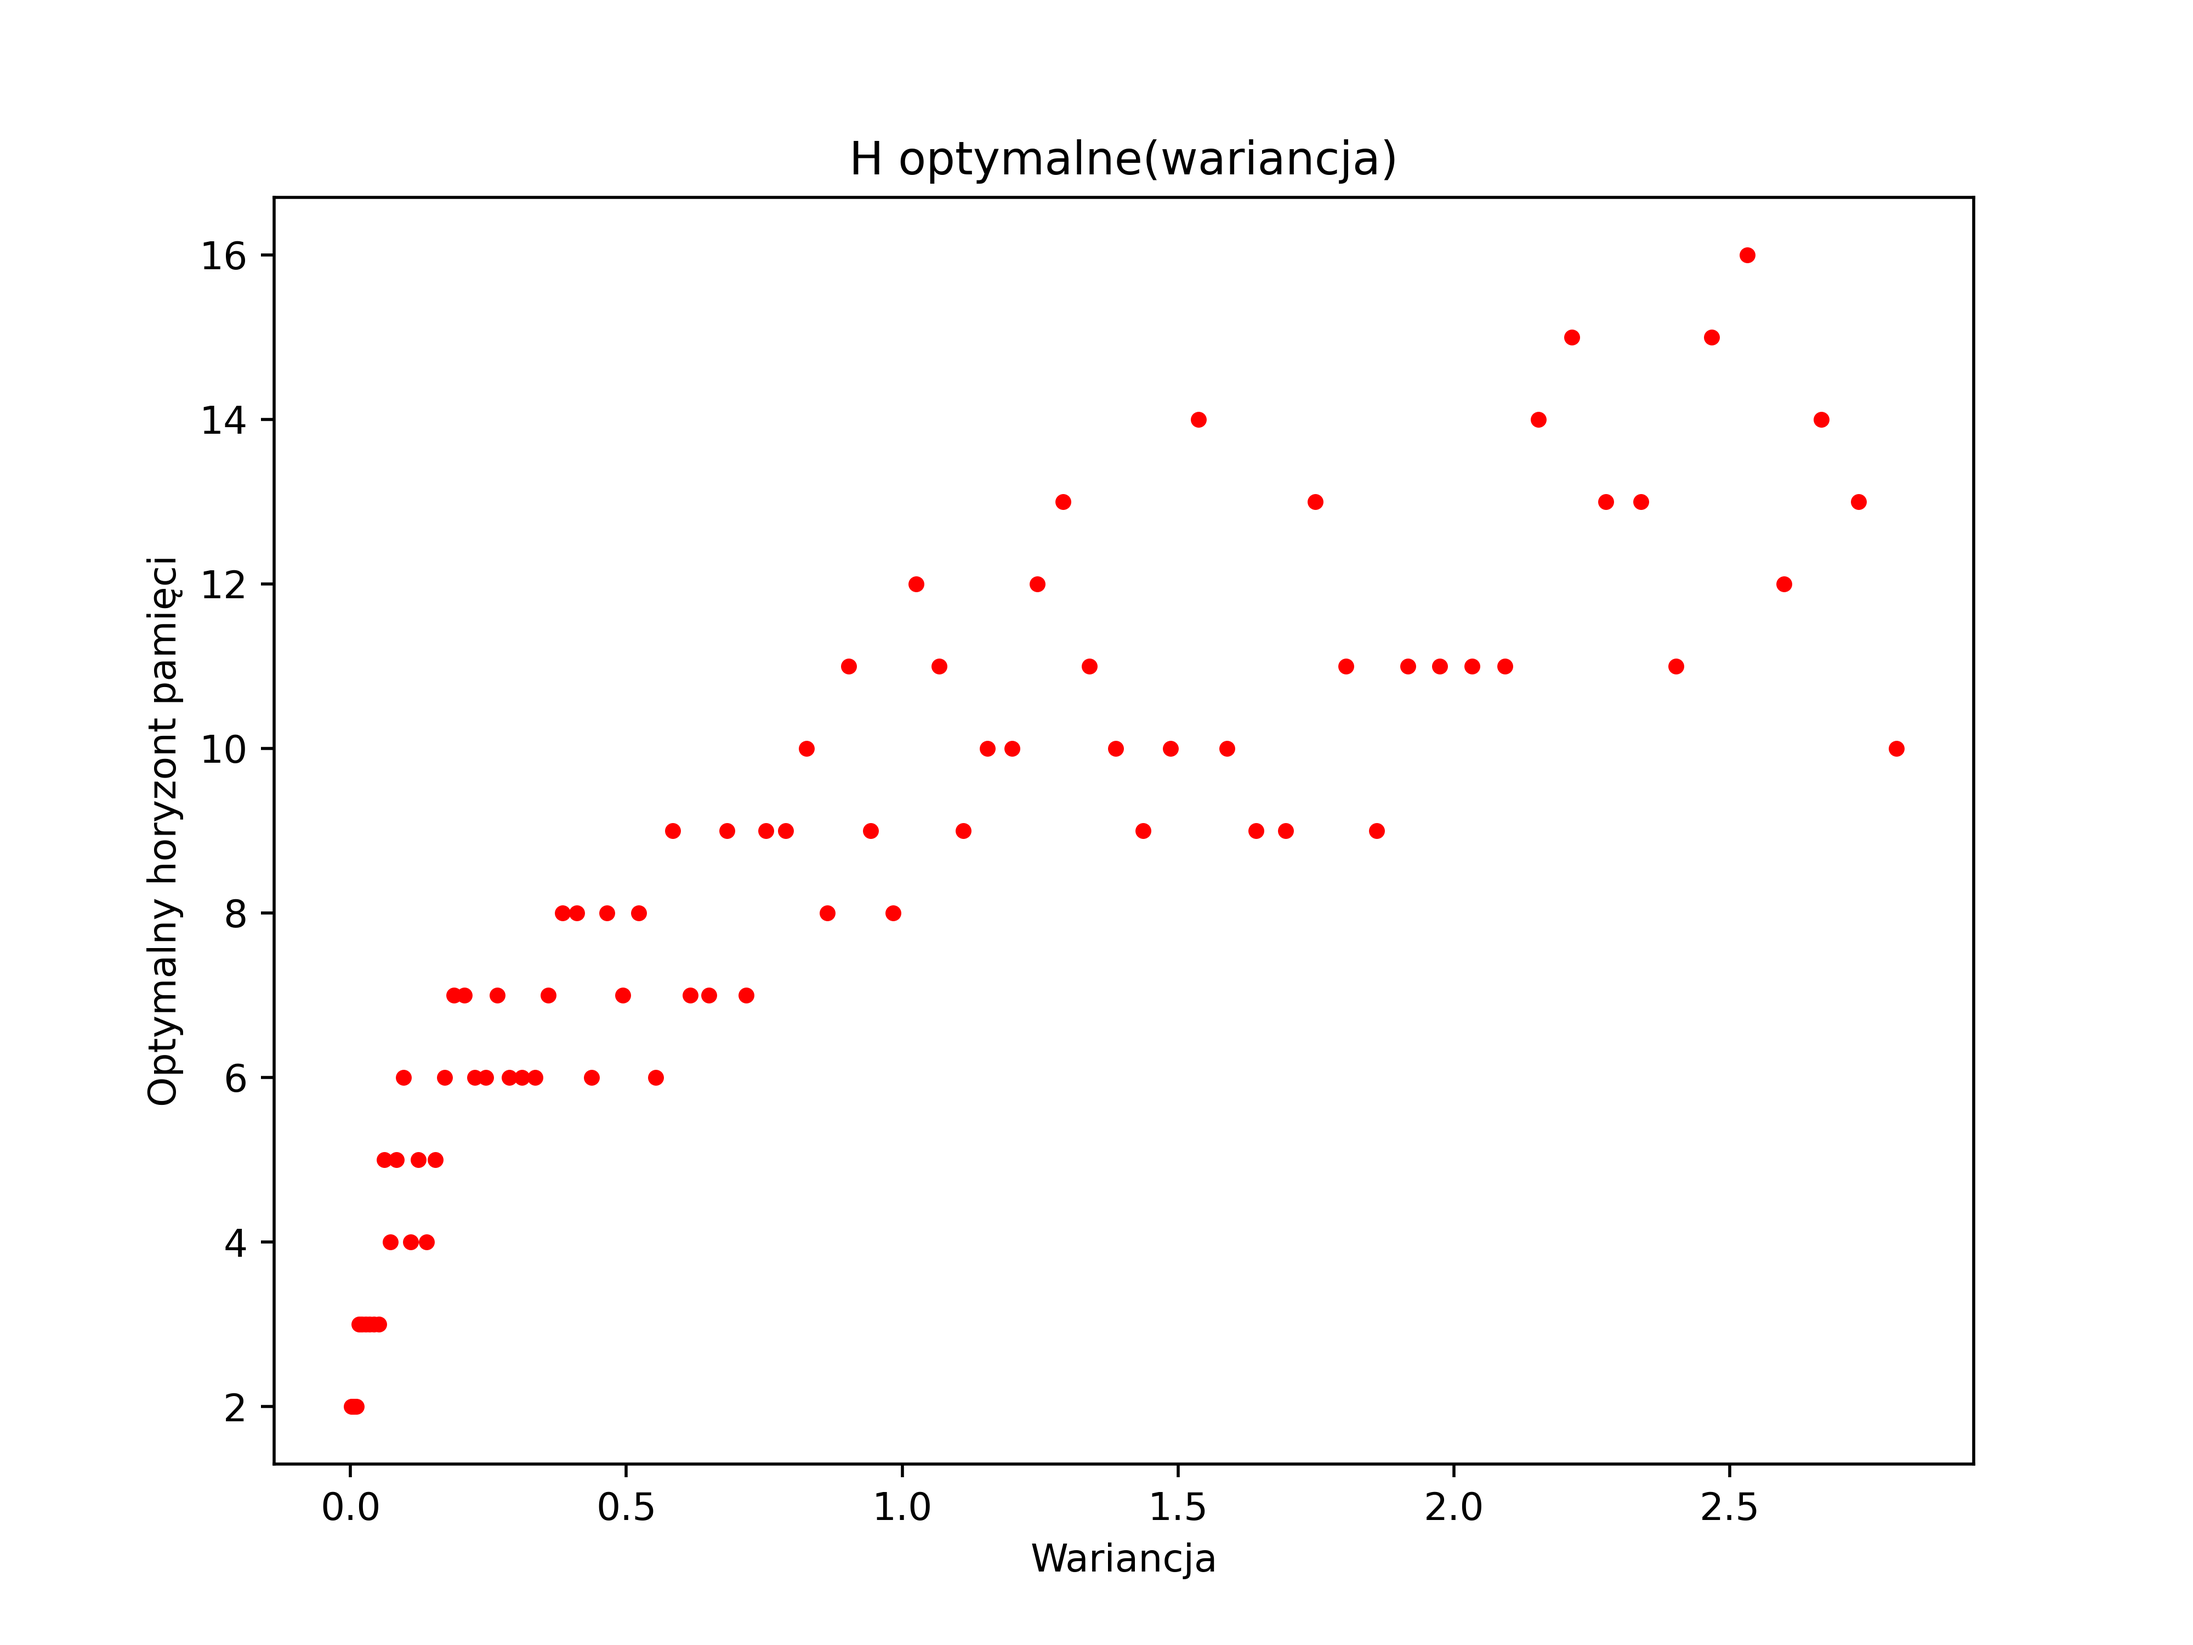
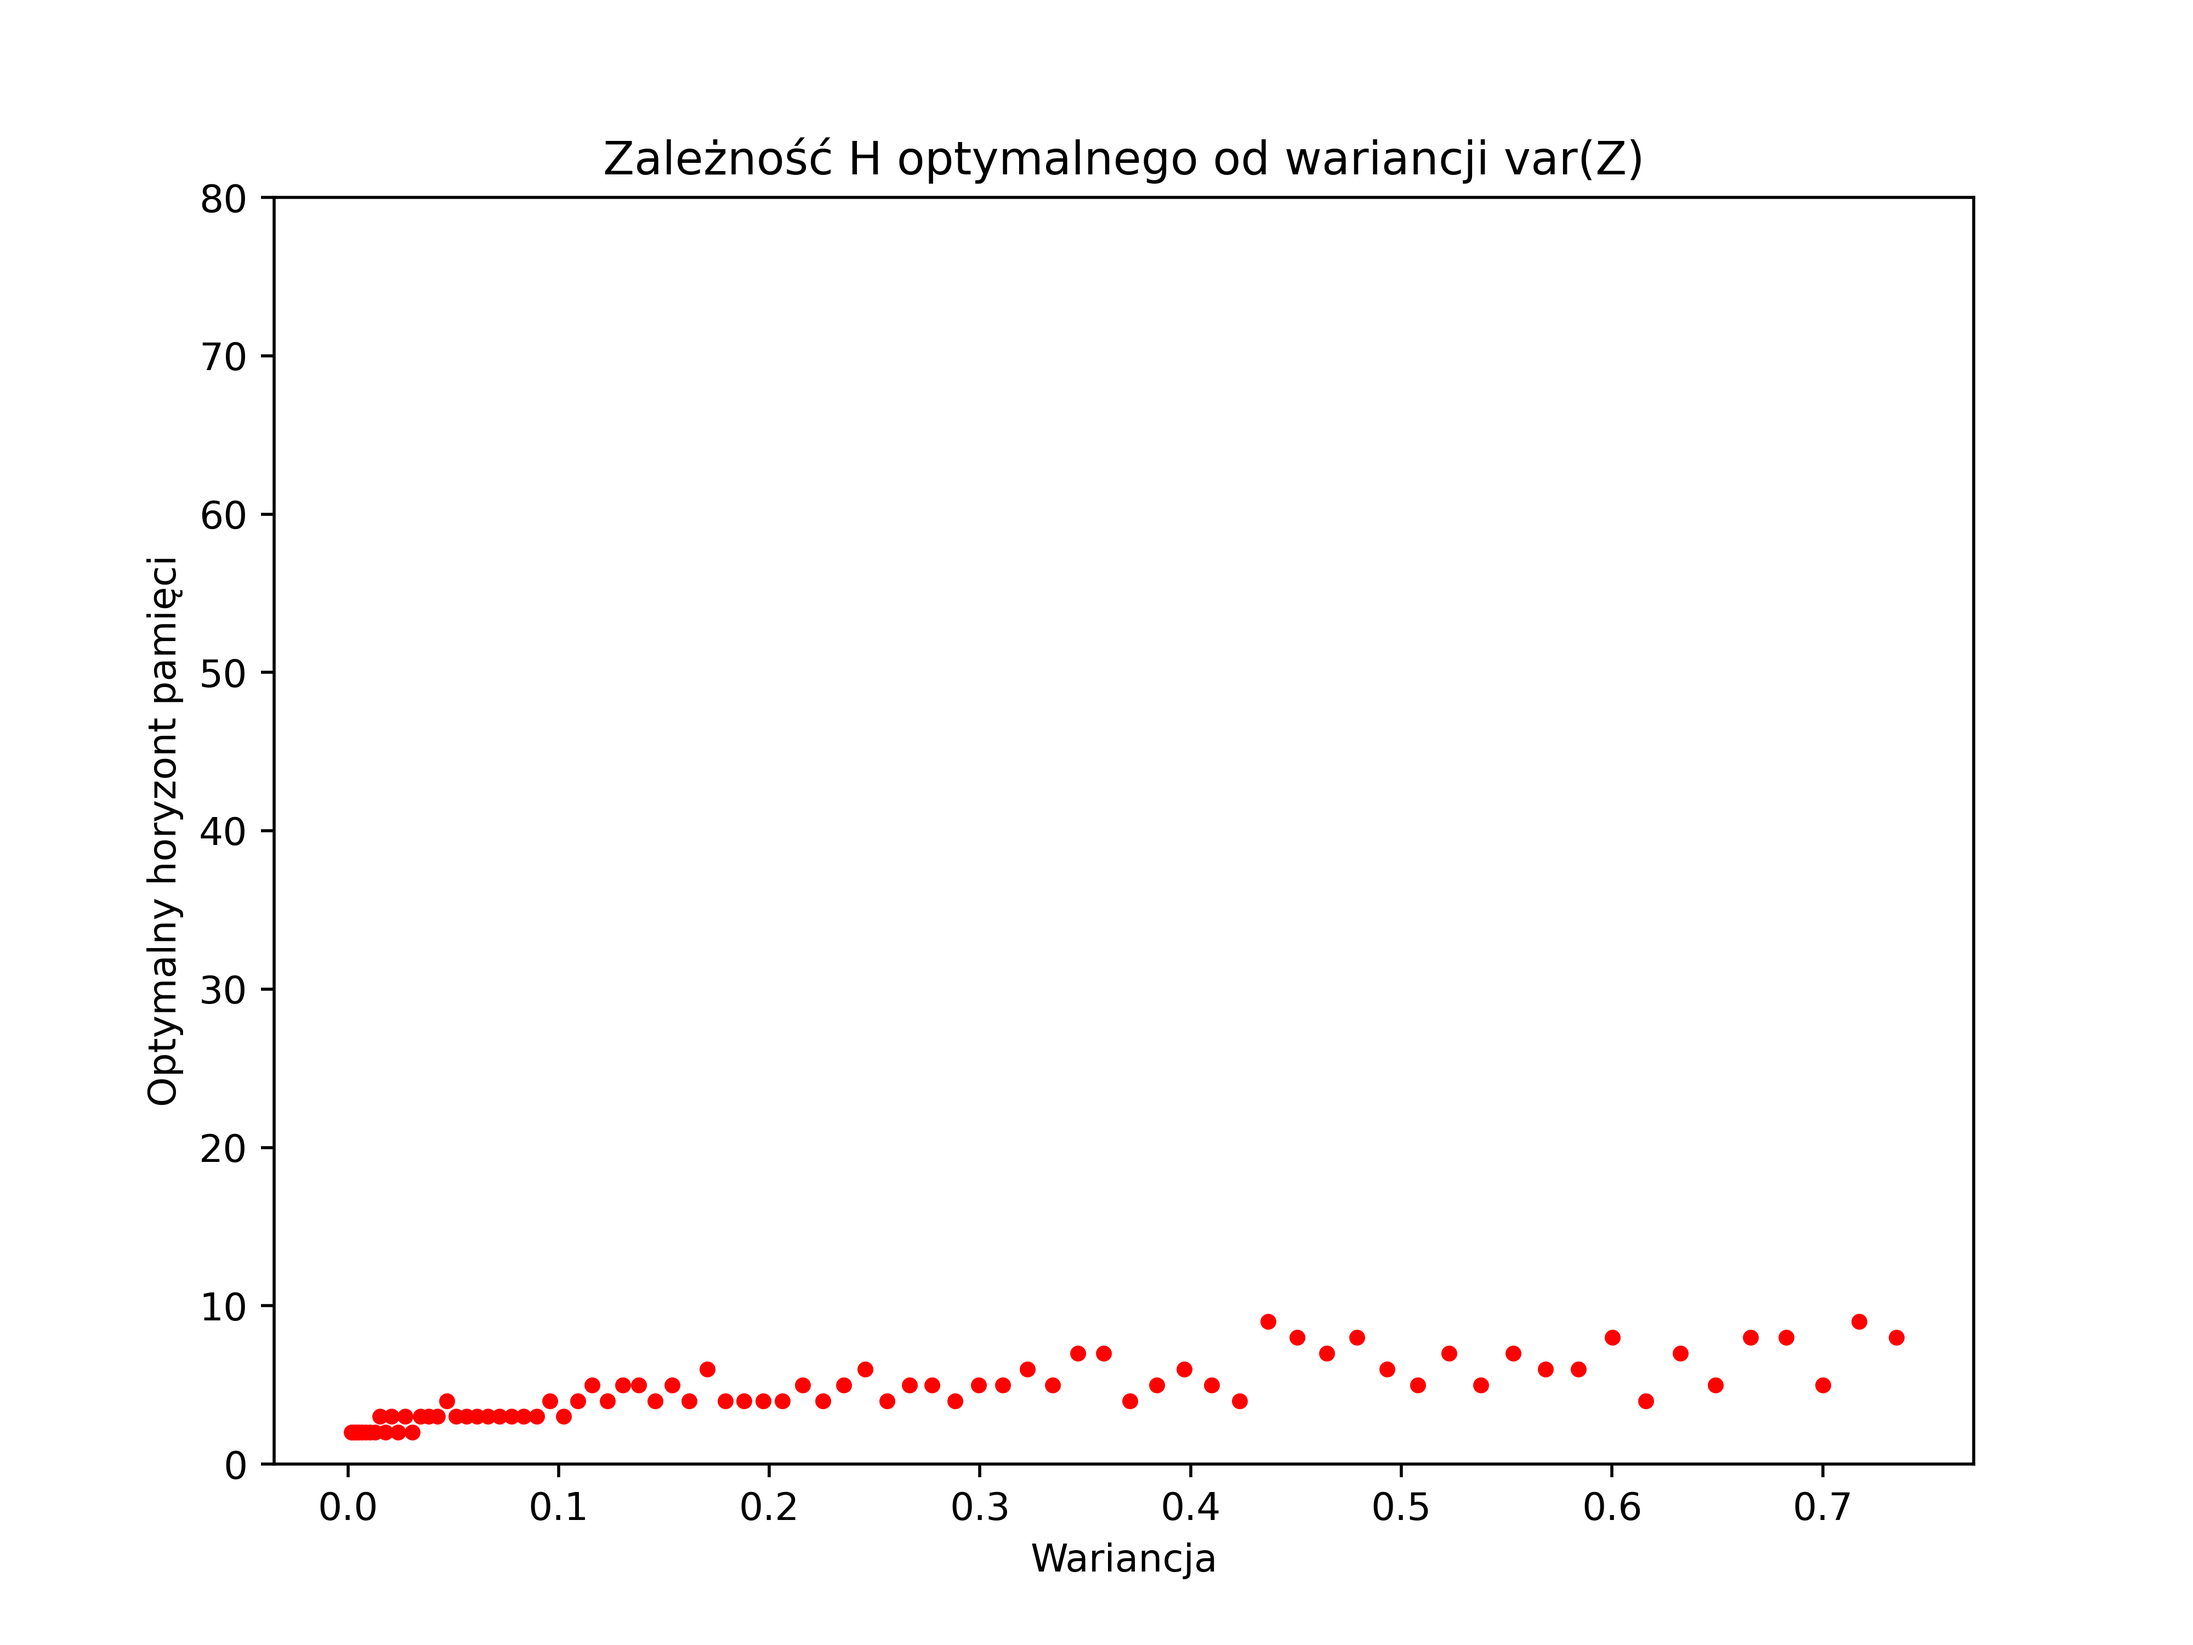
images

diff --git a/adaptacyjne/projekt1/wave.py b/adaptacyjne/projekt1/wave.py
@@ -7,7 +7,7 @@ from matplotlib import cm
 # number of samples, max h, expected signal 
 def calculate_all(N, max, triangular_signal):
     H = [i for i in range(2,max + 2)]
-    c = np.linspace(0.05, 2.05, max) # numbers chosen arbitrarily
+    c = np.linspace(0.05, 1.05, max) 
     var = np.zeros(len(c))
     MSE = np.zeros((len(c), len(H)))
     MSE_opt = np.zeros(len(c))
@@ -25,7 +25,7 @@ def calculate_all(N, max, triangular_signal):
                     if i > H[current_h]:
                         local_sum[i] += triangular_signal_with_noise[i-h] 
             estimated = np.zeros(N)
-            estimated =[ local_sum[i]/(H[current_h]) if (i > H[current_h]) else triangular_signal[i]  for i in range(N)]
+            estimated =[ local_sum[i]/(H[current_h]) if (i > H[current_h]) else triangular_signal_with_noise[i]  for i in range(N)]
            
             for i in range(H[current_h], N): # from H till N
                 MSE[current_c][current_h] += (estimated[i] - triangular_signal[i])**2
@@ -37,6 +37,7 @@ def calculate_all(N, max, triangular_signal):
                 H_opt[current_c] = H[current_h]      
         
     return H, MSE, var, H_opt, MSE_opt
+   
     
 def estimate(triangular_signal, N, c, H):
     noise = [ c *(random.random() + random.random() - 1) for _ in range(N)]
@@ -47,13 +48,104 @@ def estimate(triangular_signal, N, c, H):
         for h in range(H):
             if i > H:
                 local_sum[i] += triangular_signal_with_noise[i-h] 
-
+    estimated = np.zeros(N)
     estimated =[ local_sum[i]/(H) if (i > H) else triangular_signal_with_noise[i]  for i in range(N)]
 
     for i in range(H, N): # od H do N
-        MSE += (triangular_signal_with_noise[i] - estimated[i])**2
+        MSE += (estimated[i] - triangular_signal[i])**2
     MSE = MSE/(N - H)
-    return triangular_signal_with_noise, estimated
+    return triangular_signal_with_noise, estimated, MSE
+
+
+def images_MSE(t, N, max, triangular_signal, c_index, H_index):
+    H, MSE, var, H_opt, MSE_opt = calculate_all(N, max, triangular_signal)
+    # MSE(H) and MSE(var) plots
+    fig_H, (ax_H, ax_var) = plt.subplots(1, 2, figsize=(12, 6))
+    #  H
+    fig_H = plt.figure(figsize=(8, 6))
+    ax_H = fig_H.add_subplot(111)
+    ax_H.scatter(H, MSE[c_index,:], color='b', marker='o', s=10)
+    ax_H.set_title(f'Zależność MSE(H) dla var(Z) ={var[c_index]:.2f}')
+    ax_H.set_xlabel('Horyzont pamięci')
+    ax_H.set_ylabel('MSE(H)')
+    # var
+    fig_var = plt.figure(figsize=(8, 6))
+    ax_var = fig_var.add_subplot(111)
+    ax_var.scatter(var, MSE[: , H_index] , color='r', marker='o', s=10)
+    ax_var.set_title(f'Zależność MSE(H) dla H = {H[H_index]} przy różnych wariacjach var(Z)')
+    ax_var.set_xlabel('Wariancja')
+    ax_var.set_ylabel('MSE(H)')
+
+    # Hopt(var) 
+    fig_opt = plt.figure(figsize=(8, 6))
+    ax_opt = fig_opt.add_subplot(111)
+    ax_opt.scatter(var, H_opt,  c='r', s=10) 
+    ax_opt.set_title('Zależność H optymalnego od wariancji var(Z)')
+    ax_opt.set_ylabel('Optymalny horyzont pamięci')
+    ax_opt.set_xlabel('Wariancja')
+    ax_opt.set_ylim(0, max)
+
+    # 3d plot - H, var, MSE(h) + h opt for all calculated var
+    fig_3d = plt.figure(figsize=(14, 6))
+    ax0 = fig_3d.add_subplot(121, projection='3d')
+    ax1 = fig_3d.add_subplot(122, projection='3d')
+    X, Y = np.meshgrid(H, var)
+    Z = MSE
+
+    # optimal horizon plot
+    ax1.scatter(H_opt, var, MSE_opt, c='#fe008b', marker='o', s=40, label="H_opt(var(Z))")
+    colors = cm.viridis(Z)
+    rcount, ccount, _ = colors.shape
+    # change in
+    ax0.plot_surface(X, Y, Z, cmap='viridis')
+    ax0.set_xlabel('Horyzont pamięci')
+    ax0.set_ylabel('Wariancja')
+    ax0.set_zlabel('MSE(H)')
+    ax0.set_title('MSE(H) przy różnych wariancjach var(Z)')
+    ax0.view_init(elev=20, azim=-120)
+
+    surf = ax1.plot_surface(X, Y, Z, rcount=rcount, ccount=ccount, facecolors=colors, shade=False)
+    surf.set_facecolor((0,0,0,0))
+    ax1.set_xlabel('Horyzont pamięci')
+    ax1.set_ylabel('Wariancja')
+    ax1.set_zlabel('MSE(H)')
+    ax1.set_title('MSE(H) przy różnych wariancjach var(Z)')
+    ax1.legend(loc='center left', bbox_to_anchor=(1, 1))
+    ax1.view_init(elev=20, azim=-120)
+    plt.tight_layout()
+
+    fig_3d.savefig(os.path.join(os.path.dirname(__file__), "images", "Wykres_3d.png"), dpi=500) # APPROVED
+    fig_opt.savefig(os.path.join(os.path.dirname(__file__), "images", "Wykres_opt.png"), dpi=500) # APPROVED
+    fig_H.savefig(os.path.join(os.path.dirname(__file__), "images", f"Wykres_H_c={var[c_index]:.2f}.png"), dpi=500) # APPROVED
+    fig_var.savefig(os.path.join(os.path.dirname(__file__), "images", f"Wykres_var_H={H[H_index]}.png"), dpi=500) # APPROVED
+
+    fig_3d.show()
+    g = input("STOP")
+
+# signal w/ and wo/ noise 
+def images_signal(t, triangular_signal, N, c_value, H_value, amplitude):
+    t_w_n, est, MSE = estimate(triangular_signal, N, c=c_value, H=H_value)
+    
+    fig = plt.figure(figsize=(14, 6))
+    ax = fig.add_subplot(121) 
+    ax_est = fig.add_subplot(122)
+    ax.plot(t, triangular_signal, c='r', label="Prawdziwa fala trójkątna") 
+    ax.scatter(t, t_w_n, c='g', marker='o', label="Zaszumiona fala trójkątna")
+    var = 2 *(c_value**2)/3
+    ax.set_title(f'Prawdziwa i zaszumiona fala trójkątna dla var(Z) = {var:.2f}')
+    ax.legend(loc='upper right')
+    ax.set_xlabel('Czas (s)')
+    ax.set_ylabel('Amplituda')
+    ax.set_ylim(-amplitude - c_value - 0.1, amplitude + c_value + 0.1)
+    ax_est.plot(t, triangular_signal, c='r', label="Prawdziwa fala trójkątna") 
+    ax_est.plot(t[H_value+1:], est[H_value+1:], c='b', marker='o', label="Estymowana fala trójkątna")
+    ax_est.set_title(f'Prawdziwa fala trójkątna i jej estymacja dla H = {H_value}')
+    ax_est.legend(loc='upper right')
+    ax_est.set_xlabel('Czas (s)')
+    ax_est.set_ylabel('Amplituda')
+    ax_est.set_ylim(-amplitude - c_value - 0.1, amplitude + c_value + 0.1)
+    fig.savefig(os.path.join(os.path.dirname(__file__), "estimate", f"Szum_c={c_value}__H={H_value}_MSE={MSE:.3f}.png"), dpi=500) # APPROVED
+
 
 def main():
     # triangular function parameters 
@@ -61,158 +153,26 @@ def main():
     period = 1 / frequency
     amplitude = 1.0  # Amplitude of the signal
     duration = 1000.0  # Duration of the signal (seconds)
-    sampling_frequency = 0.7  # Sampling frequency (samples per second)
+    sampling_frequency = 0.5 # Sampling frequency (samples per second)
+    
     # time vector
     t = np.linspace(0, duration, int(sampling_frequency * duration), endpoint=False) # <class 'numpy.ndarray'>
     N = len(t)
-    # triangular_signal = amplitude * (2 * np.abs(2 * (t * frequency - np.floor(t * frequency + 0.5))) - 1)
     triangular_signal = ((4 * amplitude) / period) * np.abs(((t - (period * 0.25))%period) - (period * 0.5)) - amplitude
+    
     # amount of samples (H and var)
     max = 80
-    c_value = 1
-    H_value = 4
-    # calculating MSE, H and var
-    # H, MSE, var, H_opt, MSE_opt = calculate_all(N, max, triangular_signal)
-    t_w_n, est = estimate(triangular_signal, N, c=c_value, H=H_value)
-
-
-    # creating plots
-    # signal w/ and wo/ noise
-    fig = plt.figure(figsize=(10, 8))
-    ax = fig.add_subplot(111) # TE NAZWY SĄ DO ZMIANY !
-    # TRZEBABY JESZCZE POKAZAĆ TEN ESTYMOWANY SYGNAŁ(?)
-    ax.plot(t, triangular_signal, c='r', label="Fala trójkątna") 
-    # ax.plot(t, est, c='b', marker='o', label="Fala estymowana")
-    ax.scatter(t, t_w_n, c='g', marker='o', label="Zaszumiona fala trójkątna")
-    ax.set_title(f'Fala trójkątna')
-    ax.legend(loc='upper right')
-    ax.set_xlabel('Czas (s)')
-    ax.set_ylabel('Amplituda')
-    # ax.set_ylim(-amplitude - 0.5, amplitude + 0.5)
-
-    fig_est = plt.figure(figsize=(10,8))
-    ax_est = fig_est.add_subplot(111)
-    ax_est.plot(t, triangular_signal, c='r', label="Fala trójkątna") 
-    ax_est.plot(t, est, c='b', marker='o', label="Fala estymowana")
-    # ax_est.scatter(t, t_w_n, c='g', marker='o', label="Zaszumiona fala trójkątna")
-    ax_est.set_title(f'Fala trójkątna')
-    ax_est.legend(loc='upper right')
-    ax_est.set_xlabel('Czas (s)')
-    ax_est.set_ylabel('Amplituda')
-
-    """
-    # MSE(H) and MSE(var) plots
-    fig_MSE, (ax_H, ax_var) = plt.subplots(1, 2, figsize=(12, 6))
-    #  H
-    c_value = 5
-    ax_H.scatter(H, MSE[c_value , :], color='b', marker='o', s=10)
-    ax_H.set_title(f'Zależność MSE(H) dla var ={(2 * (c_value**2)) / 3}')
-    ax_H.set_xlabel('Horyzont pamięci')
-    ax_H.set_ylabel('MSE(H)')
-    # var
-    H_value = 2
-    ax_var.scatter(var, MSE[: , 0] , color='r', marker='o', s=10)
-    ax_var.set_title(f'Zależność MSE(H) przy różnych wariacjach dla H = {H_value}')
-    ax_var.set_xlabel('Wariancja')
-    ax_var.set_ylabel('MSE')
-
-    # Var(H opt) - CZY TO NIE POWINNO BYĆ NA ODWRÓT Hopt(var) ?? 
-    fig_opt = plt.figure(figsize=(8, 6))
-    ax_opt = fig_opt.add_subplot(111)
-    ax_opt.scatter(var, H_opt,  c='r', s=10) # ZAMIENIŁAM TUTAJ KOLEJNOŚĆ!!
-    ax_opt.set_title('H optymalne(wariancja)')
-    ax_opt.set_ylabel('Optymalny horyzont pamięci')
-    ax_opt.set_xlabel('Wariancja')
-
-    # 3d plot - H, var, MSE(h) + h opt for all calculated var
-    fig_3d = plt.figure(figsize=(8, 6))
-    ax0 = fig_3d.add_subplot(111, projection='3d')
-    X, Y = np.meshgrid(H, var)
-    Z = MSE
-
-    # optimal horizon plot
-    ax0.scatter(H_opt, var, MSE_opt, c='black', marker='o', s=20, label="H opt(var)")
-
-    # norm = plt.Normalize(Z.min(), Z.max())
-    colors = cm.rainbow(Z)
-    rcount, ccount, _ = colors.shape
-    surf = ax0.plot_surface(X, Y, Z, rcount=rcount, ccount=ccount, facecolors=colors, shade=False)
-    surf.set_facecolor((0,0,0,0))
-    # cbar = fig.colorbar(surf, shrink=0.5, aspect=5)
-
-    ax0.set_xlabel('Horyzont pamięci')
-    ax0.set_ylabel('Wariancja')
-    ax0.set_zlabel('MSE(H)')
-    ax0.set_title('MSE(H) dla róznych wariancji')
-    ax0.legend(loc='center left', bbox_to_anchor=(1, 1))
-
-    plt.tight_layout()
-    """
-    fig.savefig(os.path.join(os.path.dirname(__file__), "estimate", f"Szum_c={c_value}__H={H_value}.png"), dpi=500)
-    fig_est.savefig(os.path.join(os.path.dirname(__file__), "estimate", f"Est_c={c_value}__H={H_value}.png"), dpi=500)
-    # fig.savefig(os.path.join(os.path.dirname(__file__), "images", "Wykres_szumu.png"), dpi=500)
-    # fig_est.savefig(os.path.join(os.path.dirname(__file__), "images", "Wykres_estymowany.png"), dpi=500)
-    # fig_3d.savefig(os.path.join(os.path.dirname(__file__), "images", "Wykres_3d.png"), dpi=500)
-    # fig_opt.savefig(os.path.join(os.path.dirname(__file__), "images", "Wykres_opt.png"), dpi=500)
-    # fig_MSE.savefig(os.path.join(os.path.dirname(__file__), "images", "Wykres_MSE.png"), dpi=500)
-
-    # plt.show()
-
+    c_value = [0.2, 0.4, 0.6, 0.8, 1]
+    H_value = [2, 5, 7, 15, 25, 50]
+    for i in range(len(c_value)):
+        for j in range(len(H_value)):
+            images_signal(t, triangular_signal, N, c_value[i], H_value[j], amplitude)
+    
+    c_index = 40
+    H_index = 4 
+    images_MSE(t, N, max, triangular_signal, c_index, H_index)
+    
+    
 if __name__ == "__main__":
     main()
-"""
-plt.figure(1)
-plt.scatter(H, MSE_H, c='b', marker='o')
-plt.scatter(min_H, min_MSE, c='r', marker='o', label=f'Min MSE (H={min_H}, MSE={min_MSE})')
-plt.title(f'MSE(H) for c = {c}')
-plt.xlabel('H')
-plt.ylabel('MSE')
-plt.show()
 
-plt.figure()
-plt.plot(var, MSE_c,c='b', marker='o')
-# plt.scatter(min_var, min_MSE_c, c='r', marker='o', label=f'Min MSE (var={min_var}, MSE={min_MSE_c})')
-# plt.title(f'MSE(var) for c = {c}')
-plt.xlabel('var')
-plt.ylabel('MSE')
-plt.show()
-"""
-# print(f"MSE: {min_MSE_H}  H: {min_H}  var: {min_var}")
-"""
-plt.figure()
-plt.plot(t, triangular_signal, c='r') 
-plt.scatter(t, triangular_signal_with_noise, c='b', marker='o')
-plt.title('Triangular Signal')
-plt.xlabel('Time (s)')
-plt.ylabel('Amplitude')
-plt.grid(True)
-plt.ylim(-amplitude - 0.5, amplitude + 0.5) 
-plt.show()
-
-
-# plt.figure(figsize=(12, 8))  
-# plt.plot(t, triangular_signal, c='r')
-# plt.plot(t, estimated_Q, c='b', marker='o')
-# plt.scatter(t, triangular_signal_with_noise, c='g')
-# plt.show()
-# # -------------------------------------------------------------
-fig, axs = plt.subplots(1, 2, figsize=(14, 5))
-axs[0].plot(t, triangular_signal, c='r')
-axs[0].plot(t, estimated_Q, c='b', marker='o')
-axs[0].scatter(t, triangular_signal_with_noise, c='g')
-axs[0].set_title('Triangular Wave with the estimate')
-axs[0].set_xlabel('Time')
-axs[0].set_ylabel('Amplitude')
-
-# axs[1].plot(t, estimated_Q, c='b')
-# axs[1].plot(t, triangular_signal_with_noise, c='g')
-# axs[1].set_title('Noisy Triangular Wave and the estimate')
-axs[1].scatter(H, MSE, c='b', marker='o')
-axs[1].set_title(f'MSE(H) for c = {c}')
-axs[1].set_xlabel('H')
-axs[1].set_ylabel('MSE')
-# axs[1].set_xlabel('Time')
-# axs[1].set_ylabel('Amplitude')
-plt.tight_layout()  
-plt.show()
-"""
